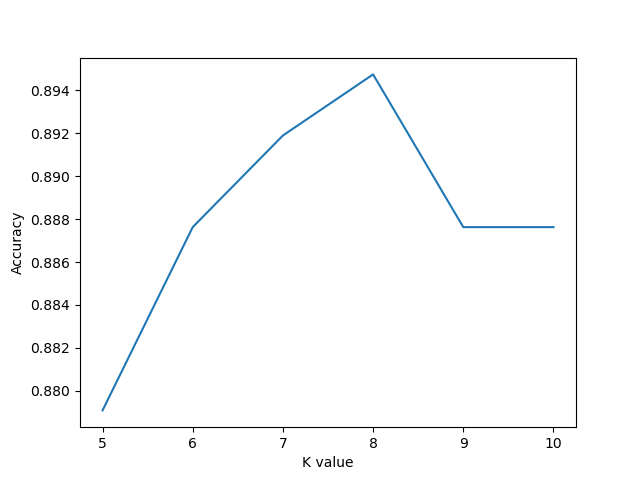
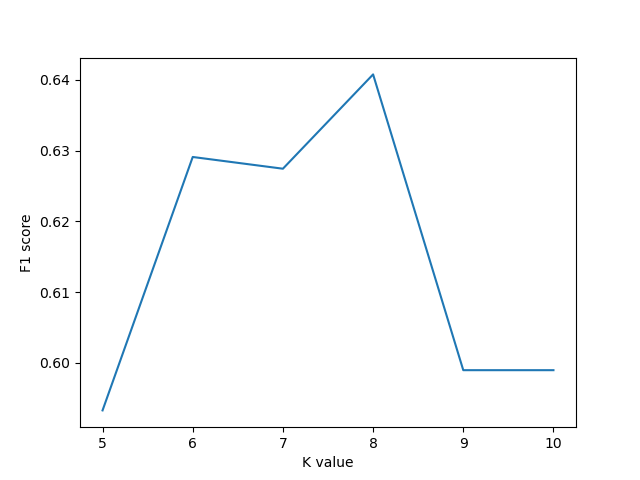
use f1 score

diff --git a/asteroids.py b/asteroids.py
@@ -1,7 +1,7 @@
 import pandas as pd
 from sklearn.model_selection import train_test_split
 from sklearn.preprocessing import StandardScaler
-from sklearn.metrics import accuracy_score
+from sklearn.metrics import accuracy_score, f1_score
 from sklearn.svm import SVC
 from sklearn.dummy import DummyClassifier
 import matplotlib.pyplot as plt
@@ -118,7 +118,7 @@ def test_model(train_X, val_X, train_y, val_y, model):
     val_predict = model.predict(val_X)
 
     # return accuracy
-    return accuracy_score(val_y, val_predict)
+    return f1_score(val_y, val_predict)
 
 
 def test_svm_c(train_X, val_X, train_y, val_y,c_list=[0.0001, 0.001, 0.01, 0.1, 1, 10, 100, 1000, 10000]):
@@ -146,7 +146,7 @@ c_list, acc = test_svm_c(X_train, X_dev, y_train, y_dev)
 plt.plot(c_list, acc)
 plt.xscale('log')
 plt.xlabel("Regularization Parameter (C)")
-plt.ylabel("Accuracy")
+plt.ylabel("F1 score")
 plt.savefig("svm_c_tests.png")
 plt.close()
 
@@ -176,7 +176,7 @@ knn = KNN(k=8)
 k_list, acc = test_k(X_train, X_dev, y_train, y_dev)
 plt.plot(k_list, acc)
 plt.xlabel("K value")
-plt.ylabel("Accuracy")
+plt.ylabel("F1 score")
 plt.savefig("knn_k_tests.png")
 plt.close()
 
@@ -199,8 +199,8 @@ test_acc.append(test_model(X_train, X_test, y_train, y_test, baseline_most_frequ
 # plot accuracy for each model
 plt.bar(models, test_acc)
 plt.xlabel("Model")
-plt.ylabel("Accuracy")
-plt.title("Accuracy of model")
+plt.ylabel("F1 score")
+plt.title("F1 score of model")
 plt.savefig("model_comparison_test.png")
 plt.close()
 

diff --git a/README.md b/README.md
@@ -74,29 +74,30 @@ X_dev = sc.transform(X_dev)
 X_test = sc.transform(X_test)
 ```
 
-To help test models, a function was created to return accuracy 
-when given a training and test dataset and a model. 
+To help test models, a function was created to return the f1 score 
+when given a training and test dataset and a model. The f1 score was used to evaluate 
+the models since the distribution of classes was not uniform. 
 
 ```python
-from sklearn.metrics import accuracy_score
+from sklearn.metrics import f1_score
 
 def test_model(train_X, val_X, train_y, val_y, model):
-    """Function to return the accuracy of a given model and dataset"""
+    """Function to return the f1_score of a given model and dataset"""
     # Fit model
     model.fit(train_X, train_y)
 
     # get predicted values
     val_predict = model.predict(val_X)
 
-    # return accuracy
-    return accuracy_score(val_y, val_predict)
+    # return f1_score
+    return f1_score(val_y, val_predict)
 ```
 
 ### Support Vector Machine
 
 The first model tested was an SVM implemented in sklearn  
-sklearn.svm.SVC. Using the default parameters, the accuracy was
-0.9516 using the development dataset.
+sklearn.svm.SVC. Using the default parameters, the f1 score was
+0.8454 using the development dataset.
 
 ```python
 from sklearn.svm import SVC
@@ -104,12 +105,12 @@ from sklearn.svm import SVC
 # default SVM 
 svm = SVC()
 
-# calculate accuracy
-accuracy = test_model(X_train, X_dev, y_train, y_dev, svm)
+# calculate f1_score
+f1_score = test_model(X_train, X_dev, y_train, y_dev, svm)
 ```
 
 A function was created to help optimize the regularization parameter in the SVM
-model. This function returns a list of the values used and accuracy of the models.
+model. This function returns a list of the values used and f1 score of the models.
 
 ```python
 def test_svm_c(train_X, val_X, train_y, val_y,c_list=[0.0001, 0.001, 0.01, 0.1, 1, 10, 100, 1000, 10000]):
@@ -121,7 +122,7 @@ def test_svm_c(train_X, val_X, train_y, val_y,c_list=[0.0001, 0.001, 0.01, 0.1, 
 
     return c_list, res
 
-# plot SVM accuracy vs C
+# plot SVM f1_score vs C
 c_list, acc = test_svm_c(X_train, X_dev, y_train, y_dev)
 plt.plot(c_list, acc)
 plt.xscale('log')
@@ -131,8 +132,8 @@ plt.savefig("svm_c_tests.png")
 plt.close()
 ```
 
-The best value of C was 100. This resulted in an accuracy of 0.9644.
-The accuracy at each value of C is shown in the following plot. 
+The best value of C was 100. This resulted in an f1 score of 0.8936.
+The f1 score at each value of C is shown in the following plot. 
 
 ![c optimization](svm_c_tests.png)
 
@@ -168,7 +169,7 @@ class KNN(object):
 
 
     def find_nearest_neighbors(self, train_x, train_y, p):
-        """Cacluate k nearest neighbors given a trainin dataset and a test row"""
+        """Calculate k nearest neighbors given a training dataset and a test row"""
         # initialize list to act as priority queue of distances
         dists = []
         # loop through the training data
@@ -199,7 +200,7 @@ class KNN(object):
             for n in knn:
                 # get target value
                 value = n[-1]
-                # increment target vote by 1 if already in dictrionary
+                # increment target vote by 1 if already in dictionary
                 if value in votes:
                     votes[value] = votes[value] + 1
                 # else initialize vote to 1
@@ -211,7 +212,7 @@ class KNN(object):
 ```
 
 To identify the optimal k value for the KNN classifier, a function was created
-to test the accuracy of the model at each value.
+to test the f1 score of the model at each value.
 
 ```python
 def test_k(train_X, val_X, train_y, val_y,k_list=[5, 6, 7, 8, 9, 10]):
@@ -223,7 +224,7 @@ def test_k(train_X, val_X, train_y, val_y,k_list=[5, 6, 7, 8, 9, 10]):
 
     return k_list, res
 
-# plot KNN accuracy vs C
+# plot KNN f1_score vs C
 k_list, acc = test_k(X_train, X_dev, y_train, y_dev)
 plt.plot(k_list, acc)
 plt.xlabel("K value")
@@ -233,14 +234,14 @@ plt.close()
 ```
 
 The results of the test_k function are shown below. This identified 8 as the optimal k 
-value resulting in an accuracy of 0.8947 when tested using the development dataset.
+value resulting in an f1 score of 0.6408 when tested using the development dataset.
 ![k optimization](knn_k_tests.png)
 
 ### Baseline Models
 
 To help evaluate performance of the models, two baseline models were used. The
 DummyClassifier from sklearn was used with either a stratified strategy or a most_popular
-strategy. The accuracy was 0.7354 for the stratified baseline and 0.8335 for the most_frequent
+strategy. The f1 score was 0.1714 for the stratified baseline and 0.0 for the most_frequent
 baseline model using the development dataset. Both the KNN and SVM models performed better than 
 the baseline. 
 
@@ -268,7 +269,7 @@ test_acc.append(test_model(X_train, X_test, y_train, y_test, knn))
 test_acc.append(test_model(X_train, X_test, y_train, y_test, baseline_stratified))
 test_acc.append(test_model(X_train, X_test, y_train, y_test, baseline_most_frequent))
 
-# plot accuracy for each model
+# plot f1_score for each model
 plt.bar(models, test_acc)
 plt.xlabel("Model")
 plt.ylabel("Accuracy")
@@ -277,9 +278,9 @@ plt.savefig("model_comparison_test.png")
 plt.close()
 ```
 
-The SVM model had the best performance with an accuracy score of 0.9488. The accuracy of 
-the KNN model (0.9019)  was slightly above the most_frequent baseline (0.8366). The 
-stratified baseline performed the worst with and accuracy of 0.6974. The accuracy of the models
+The SVM model had the best performance with an f1 score score of 0.8407. The f1 score of 
+the KNN model (0.6600) was above the stratified baseline (0.1472). The 
+most_frequent baseline performed the worst with an f1 score of 0.0. The f1 score of the models
 is shown below.
  
 ![test comparison](model_comparison_test.png)
@@ -287,7 +288,8 @@ is shown below.
 ### Usage
  
 All code is found in `asteroids.py`. The script will read the `nasa.csv`
-file in the same directory as the script. It will output 3 plots. 
+file in the same directory as the script. It will output 3 plots: svm_c_tests.png, 
+knn_k_tests.png, and model_comparison_test.png
  
 Example: 
  
